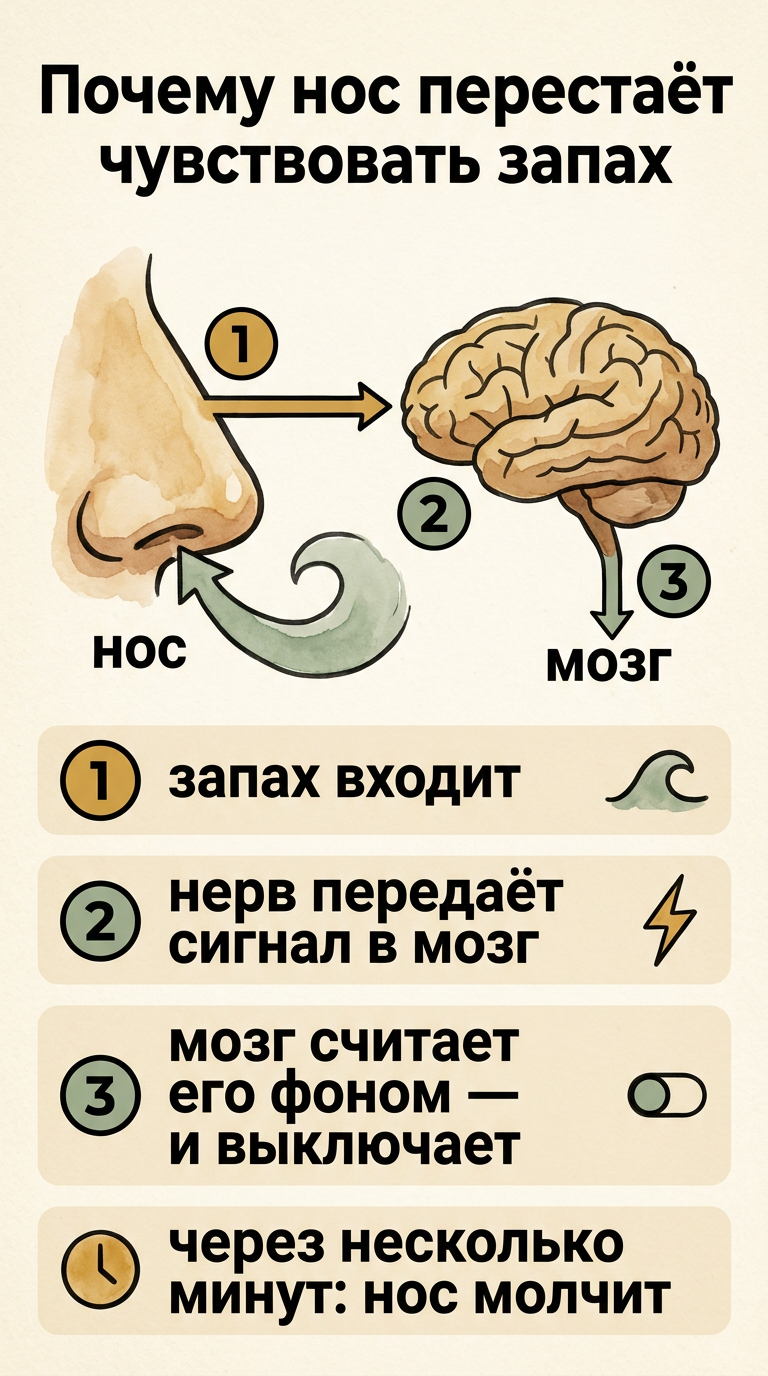
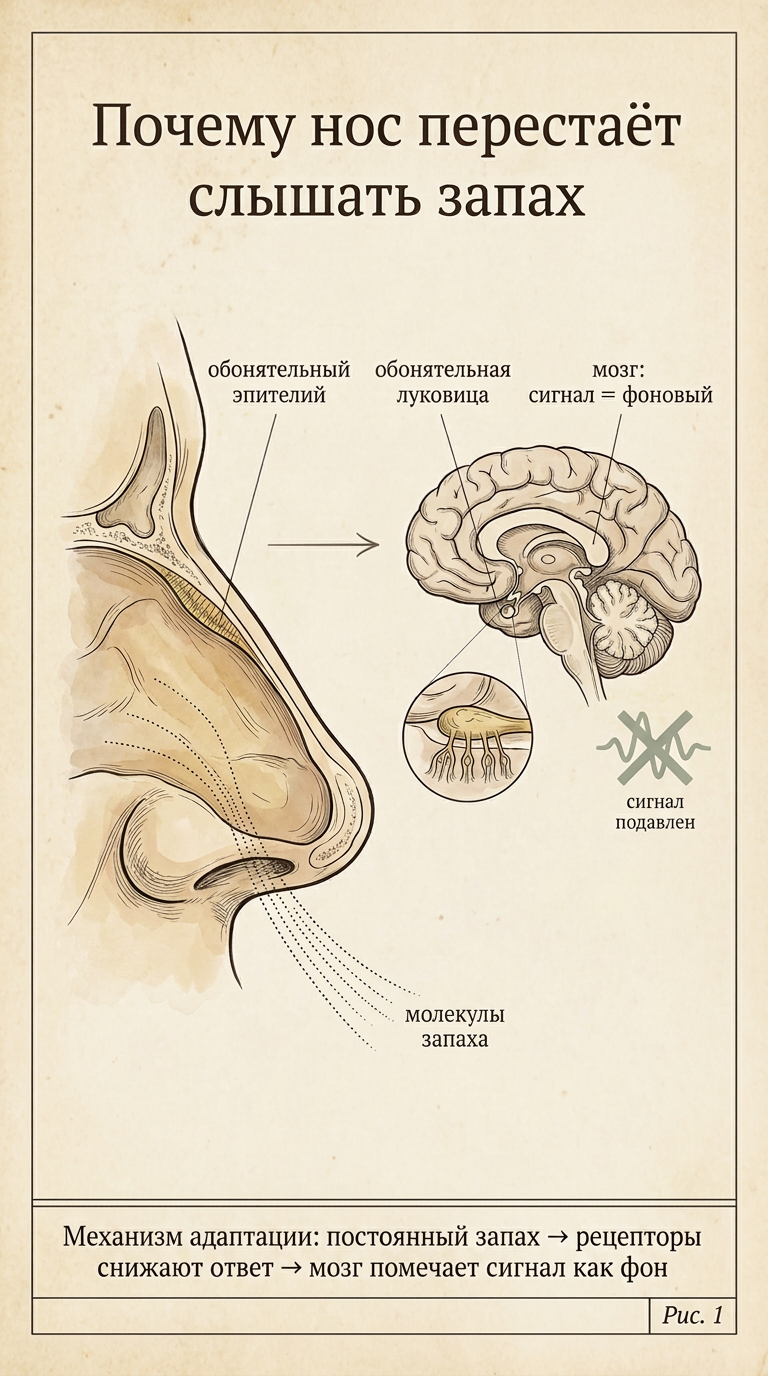
MAX: пост 3 - финальная схема в стиле медицинского атласа

diff --git a/03-сайт/max/images/README.md b/03-сайт/max/images/README.md
@@ -7,7 +7,7 @@
 
 Технически: в MAX картинки к посту уходят через POST /uploads?type=image и attachments сообщения.
 - `post2-shkaf.png` — пост 2: разрез шкафа у холодной стены (ДВП, зазор 5 см, мешочек с углем). Утверждена автором 24.10.
-- `post3-nos.png` — пост 3: инфографика «Почему нос перестаёт чувствовать запах»: нос → мозг, шаги 1-2-3, плашки с объяснением, финал «через несколько минут: нос молчит». Итоговая (третья) версия; требование автора — ИНФОРМАТИВНОСТЬ: показывать механизм, а не украшение.
+- `post3-nos.png` — пост 3: итоговая версия — строгая медицинская таблица-схема («Рис. 1»): срез носа с обонятельным эпителием, стрелка к мозгу с обонятельной луковицей, врезка, «сигнал подавлен», подвал с механизмом адаптации. Требования автора: информативно (механизм) и НЕ по-детски (академично). Урок: стиль канала = медицинский атлас, не мультяшные постеры.
 
 
 ## Урок по иллюстрациям в MAX (29.10)
